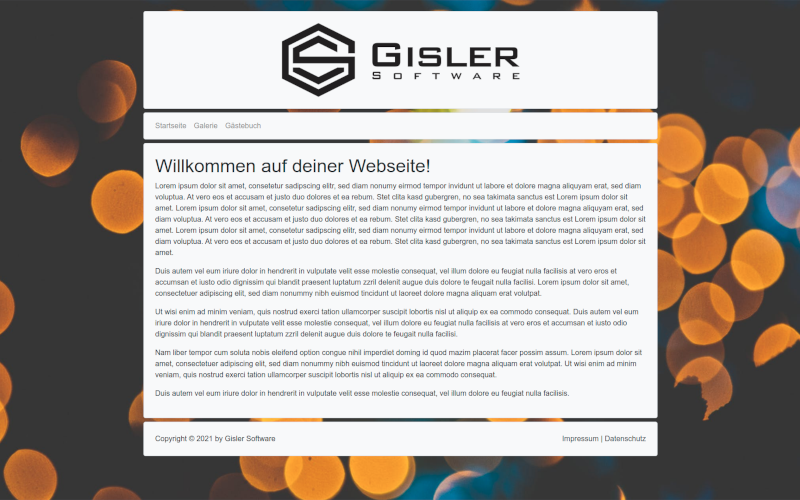
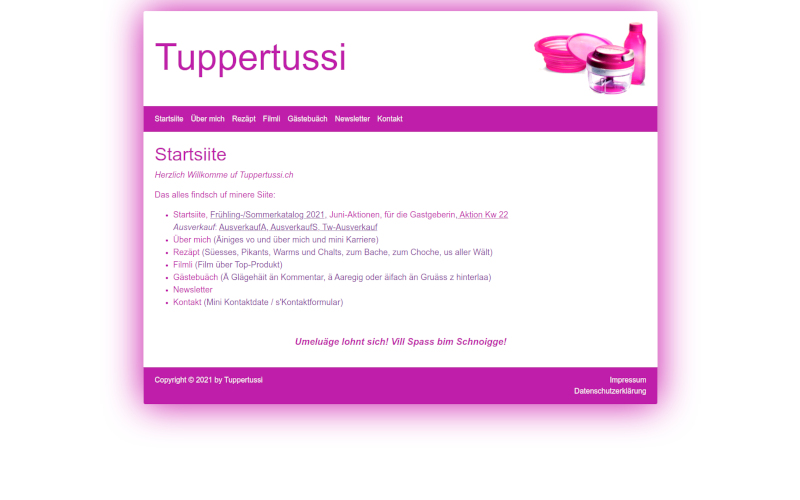
custom theme for tuppertussi

diff --git a/assets/css/style.scss b/assets/css/style.scss
@@ -1,17 +1,14 @@
+$primary: #B404AE;
+$body-color: #B404AE;
+$link-color: #B404AE;
+$link-hover-color: #FF00FF;
+
 @import '../../vendor/twbs/bootstrap/scss/bootstrap';
 
 $fa-font-path: "../webfonts" !default;
 @import '../../vendor/fortawesome/font-awesome/scss/fontawesome';
 @import '../../vendor/fortawesome/font-awesome/scss/solid';
 @import '../../vendor/fortawesome/font-awesome/scss/brands';
-
-body {
-  background: url('../img/bg.jpeg') no-repeat center center fixed;
-  -webkit-background-size: cover;
-  -moz-background-size: cover;
-  -o-background-size: cover;
-  background-size: cover;
-}
 
 .background-cover {
   background-repeat: no-repeat;
@@ -27,4 +24,47 @@ body {
 #cookie-info {
   position: fixed;
   bottom: 0;
+}
+
+main * {
+  max-width: 100%;
+}
+
+a.logo {
+  .title {
+    font-size: 5rem;
+    padding-top: 1rem;
+    @media (max-width: map_get($grid-breakpoints, xl)) {
+      padding-top: 0;
+    }
+    @media (max-width: map_get($grid-breakpoints, lg)) {
+      font-size: 4rem;
+      padding-top: 0.7rem;
+    }
+    @media (max-width: map_get($grid-breakpoints, md)) {
+      font-size: 3rem;
+    }
+    @media (max-width: map_get($grid-breakpoints, sm)) {
+      font-size: 2rem;
+    }
+  }
+  text-decoration: none;
+  &:hover {
+    color: $link-color;
+  }
+}
+
+nav.navbar {
+  .navbar-brand, .navbar-toggler, .nav-link {
+    color: $white;
+  }
+  .nav-link {
+    &:hover {
+      color: lighten($link-hover-color, 30);
+    }
+  }
+}
+
+.shadow-primary {
+  box-shadow: 0 0 5rem $primary !important;
 }

diff --git a/assets/js/script.js b/assets/js/script.js
@@ -27,4 +27,7 @@ $(function() {
     if (getCookie('accept-cookies') === "") {
         $('#cookie-info').removeClass('d-none');
     }
+    $('a.mail').click(function() {
+        window.location.href = 'mailto:' + $(this).html().replace('(at)', '@');
+    });
 });

diff --git a/README.md b/README.md
@@ -1,7 +1,3 @@
-# GislerCMS theme
+# GislerCMS theme for Tuppertussi
 
-Custom theme for [gislercms](https://github.com/dominicgisler/gislercms)
-
-A custom theme allows to override existing templates in [/templates](https://github.com/dominicgisler/gislercms/tree/master/templates).
-
-This repository should give you an example about how to implement themes.
+[tuppertussi.ch](https://tuppertussi.ch)
